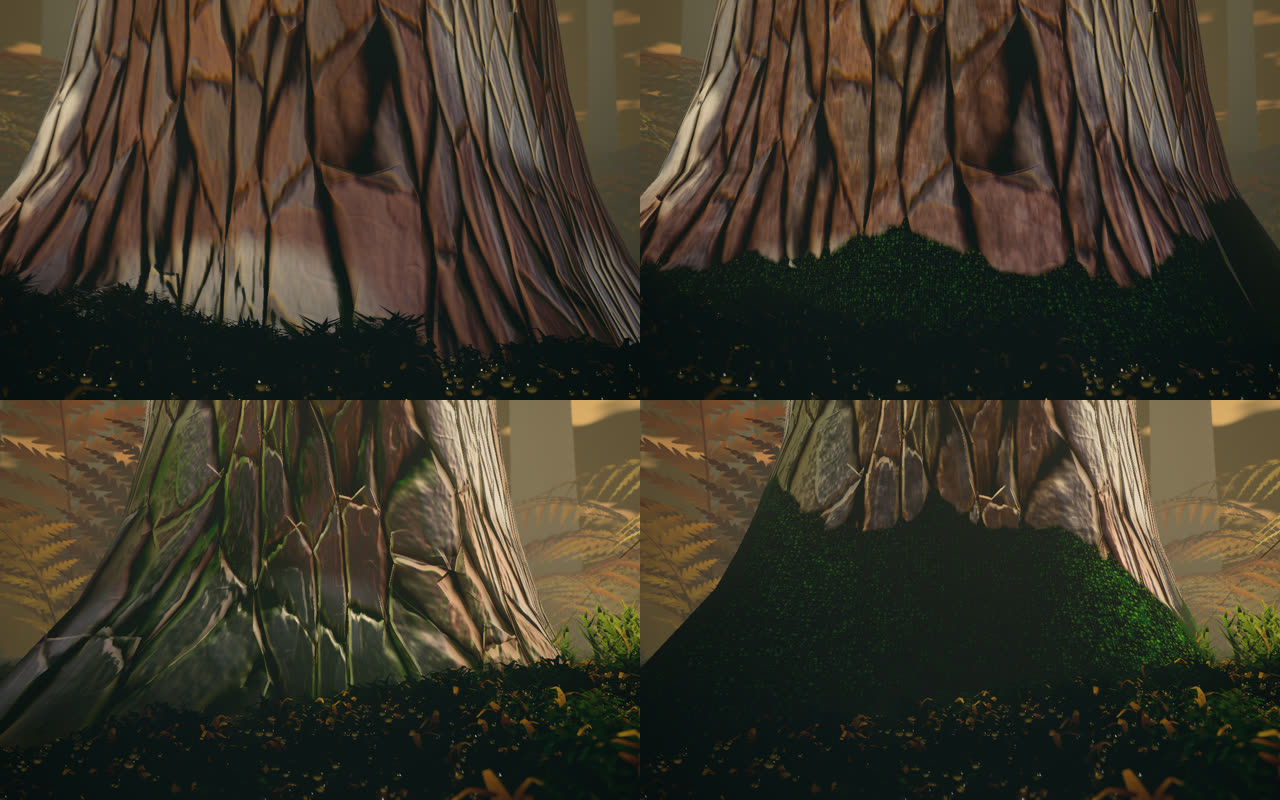
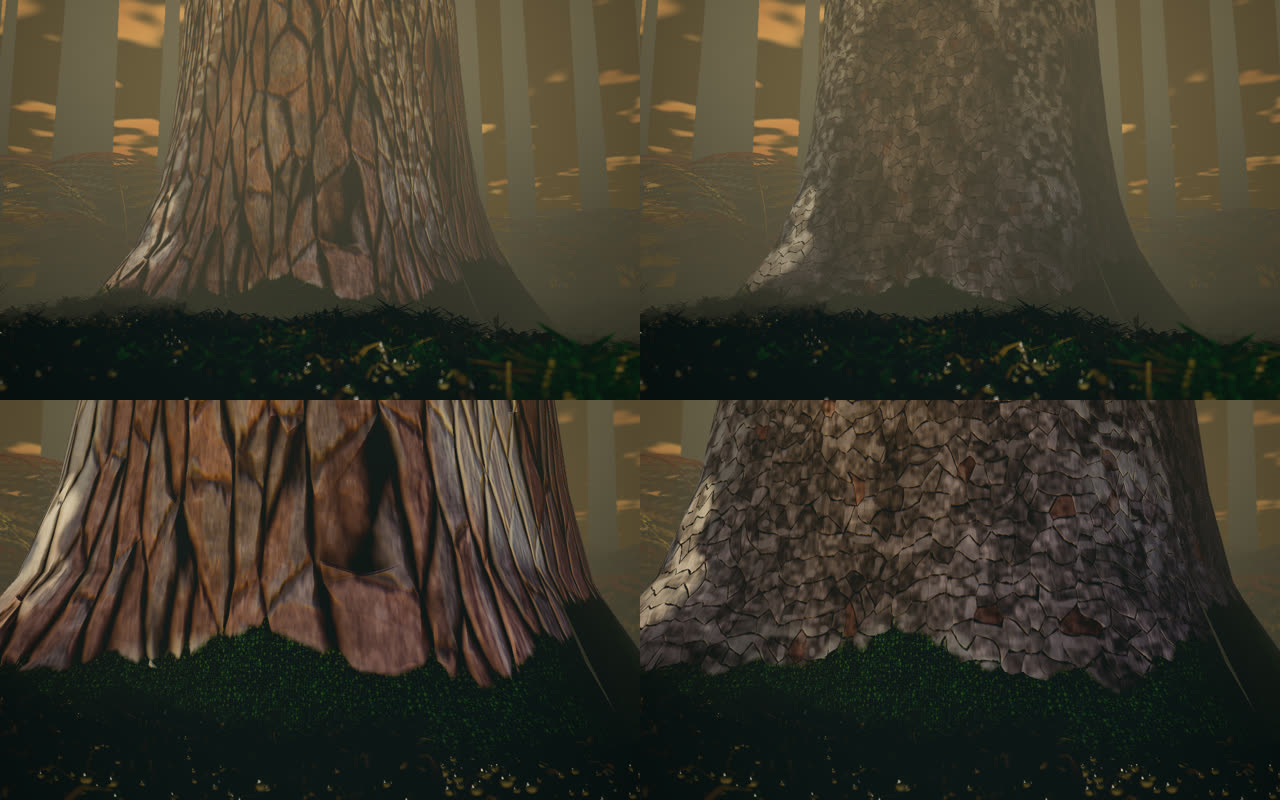
feat: 16 spruce bark, small overlapping scales
The pine plates looked fake up close. Spruce bark from the photo instead: round scales a few centimetres across, overlapping like tiles, with plenty of texture near.

- scales warped by noise round the trunk, curved and uneven
- dark gap under each lifted lower edge, only a faint parting at the sides
- a few scales gone, red-brown underneath
- weathered patches and pits up close, stronger grain

diff --git a/16/src/trees.ts b/16/src/trees.ts
@@ -1,8 +1,8 @@
 // Spruce trunks, columns rising out of the moss into the haze. One per cell of a coarse grid, by hash.
 // Three levels of detail, each an instanced mesh sharing one material: near trunks have their root flare in
 // fine geometry, mid ones a coarser version, far ones are octagonal columns. Trunks are sorted into the
-// levels as you move. The bark is a shader: long plates and deep wandering furrows, flaking in layers, bump-mapped
-// by finite differences, algae and crust lichen; up close fibres and papery scales on the plates, and a
+// levels as you move. The bark is a shader: spruce, small round scales overlapping like tiles, their lower edges
+// lifted, bump-mapped by finite differences, algae and crust lichen; up close fibres on the scales, and a
 // cushion of moss round the foot, swelling the outline, its shoots fuzzy and lime at the tips.
 import * as THREE from 'three';
 import { mulberry32 } from './noise';
@@ -217,18 +217,22 @@ float tips(vec2 b) {
   }
   return t;
 }
-// Pine-like bark: long plates running up the trunk, split by deep wandering furrows that join and part, with
-// fewer cracks across; each plate flaking off in layers, grey on top, red-brown where a flake has come away.
-// A cell noise stretched up the trunk, with a whole number of cells around so it wraps without a seam, and
-// its coordinates warped by sines of the angle (which wrap too) so the furrows wander.
+// Spruce bark: thin round scales a couple of centimetres across, overlapping like roof tiles, each one's
+// lower edge lifted off the trunk so it catches the light above and drops a little shadow below; shallow
+// cracks between them, and here and there a scale gone, showing red-brown underneath. A cell noise with a
+// whole number of cells around so it wraps without a seam, its rows nudged by sines of the angle (which wrap
+// too) so they do not line up.
 float AROUND; // cells around this trunk
-const float PER_Y = 6.5; // cells per unit up
+const float PER_Y = 30.0; // cells per unit up: a scale is about three centimetres tall
 vec4 barkV(vec2 b) {
   float ang = b.x / (6.2831853 * vR); // 0..1 around
   vec2 p = vec2(ang * AROUND, b.y * PER_Y);
   float a = ang * 6.2831853;
-  p.x += 0.45 * sin(a * 3.0 + b.y * 1.3) + 0.3 * sin(a * 7.0 - b.y * 2.9) + 0.18 * sin(a * 13.0 + b.y * 5.3);
-  p.y += 0.25 * sin(a * 5.0 + b.y * 0.7);
+  p.y += 0.35 * sin(a * 7.0 + b.y * 2.0) + 0.2 * sin(a * 19.0 - b.y * 5.0);
+  // the cells warped by a noise round the trunk (a circle in it, so it wraps): curved, uneven scales, not tiles
+  float K = AROUND * 0.11;
+  vec2 w = vec2(cos(a), sin(a)) * K;
+  p += (vec2(n21(w + vec2(0.0, p.y * 0.6)), n21(w * 1.3 + vec2(5.2, p.y * 0.5))) - 0.5) * vec2(0.9, 0.7);
   vec2 i = floor(p), f = fract(p);
   float f1 = 9.0, f2 = 9.0;
   vec2 id = vec2(0.0), q1 = vec2(0.0), q2 = vec2(0.0);
@@ -236,50 +240,45 @@ vec4 barkV(vec2 b) {
     vec2 o = vec2(float(x), float(y));
     vec2 c = i + o;
     c.x = mod(c.x, AROUND);
-    vec2 pt = o + vec2(h21(c), h21(c + 17.3)) * vec2(0.8, 0.9) + vec2(0.1, 0.05);
-    vec2 d = (pt - f) * vec2(1.0, 0.55); // distance counted short up the trunk: plates come out long
-    float l = length(d);
+    vec2 pt = o + 0.15 + 0.7 * vec2(h21(c), h21(c + 17.3));
+    float l = length((pt - f) * vec2(1.0, 0.8));
     if (l < f1) { f2 = f1; q2 = q1; f1 = l; q1 = pt; id = c; } else if (l < f2) { f2 = l; q2 = pt; }
   }
   float edge = f2 - f1;
-  // the furrow: a deep narrow V, its floor broken
-  // ragged: the edge eaten into at two scales, so a furrow's walls are broken, not drawn
-  float rag = (n21(p * vec2(5.0, 2.5)) - 0.5) * 0.12 + (n21(p * vec2(14.0, 7.0)) - 0.5) * 0.06;
-  // an edge between cells side by side runs up the trunk: a deep, wide furrow; one between cells one over
-  // the other runs across: a narrow shallow crack, so the plates read as long strips and not a net
-  vec2 dq = (q2 - q1) * vec2(1.0, 0.55);
-  float upright = smoothstep(0.35, 0.8, abs(dq.x) / (length(dq) + 1e-4));
-  float furrow = smoothstep(0.02, mix(0.1, 0.32, upright), edge + rag);
-  furrow = sqrt(furrow); // steep walls, a rounded shoulder
-  furrow = mix(1.0 - 0.45 * (1.0 - furrow), furrow, upright);
-  // the plate: flat-topped, flaking in two or three layers, the steps wandering across it
-  float fl = n21(p * vec2(2.6, 1.3) + id * 7.31) * 0.75 + n21(p * vec2(6.0, 3.0) + id * 3.7) * 0.25;
-  float t = fl * 2.6;
-  float layers = (floor(t) + smoothstep(0.35, 0.55, fract(t))) / 2.6;
-  // the plate's own surface: rough, with fine cracks across it where the outer scales split
-  float rough = n21(p * vec2(16.0, 9.0)) * 0.6 + n21(p * vec2(37.0, 21.0)) * 0.4;
-  float scaleCrack = smoothstep(0.06, 0.0, abs(fract(p.y * 3.0 + 0.6 * n21(p * vec2(4.0, 1.0) + id)) - 0.5) - 0.44) * smoothstep(0.55, 0.75, n21(p * 2.0 + id)) * n21(p * vec2(9.0, 3.0));
-  // rough enough to break the light up at arm's length, so the plates do not shade smooth like plastic
-  float h = furrow * (0.6 + 0.3 * layers + 0.26 * rough - 0.1 * scaleCrack);
-  return vec4(h, furrow, layers, h21(id + 3.1));
+  // where one scale's lower edge lies over the next a dark gap shows under it; beside each other they only
+  // just part, so the scales read as overlapping tiles and not a net of outlines
+  float rag = (n21(p * vec2(4.0, 3.0)) - 0.5) * 0.1 + (n21(p * vec2(11.0, 9.0)) - 0.5) * 0.06;
+  vec2 dq = q2 - q1;
+  float under = smoothstep(0.2, 0.7, -dq.y / (length(dq) + 1e-4)); // the neighbour is below this scale
+  float crack = smoothstep(0.0, mix(0.03, 0.14, under), edge + rag);
+  crack = mix(1.0 - 0.18 * (1.0 - crack), crack, under);
+  // the scale: rises towards its lower edge, which stands off the trunk; a slight dome across
+  vec2 d = f - q1; // from the scale's middle
+  float lift = clamp(0.5 - d.y * 0.9, 0.0, 1.0);
+  float dome = 1.0 - clamp(f1 * 1.4, 0.0, 1.0);
+  // some scales have come away: a step down to the red-brown underneath
+  float gone = step(h21(id + 8.1), 0.035);
+  float rough = n21(p * vec2(3.0, 2.5)) * 0.5 + n21(p * vec2(7.0, 6.0)) * 0.3 + n21(p * vec2(17.0, 13.0)) * 0.2;
+  float h = crack * (0.5 + 0.35 * lift + 0.1 * dome + 0.25 * rough - 0.3 * gone);
+  return vec4(h, crack, 1.0 - gone, h21(id + 3.1));
 }
 void main() {
   vec3 N = normalize(vNormal);
   vec3 L = normalize(uLightDir);
   vec3 V = normalize(cameraPosition - vWorldPos);
-  AROUND = max(6.0, floor(6.2831853 * vR * 17.0 + 0.5));
+  AROUND = max(12.0, floor(6.2831853 * vR * 40.0 + 0.5)); // scales about 2.5 cm wide
   vec4 bv = barkV(vBark);
   float h = bv.x;
   // far away the cells are smaller than a pixel: ease the relief and the contrast out instead of shimmering
   float px = length(fwidth(vBark)) * PER_Y * 1.6;
   float near = 1.0 - smoothstep(0.25, 0.9, px);
   // the normal from the height's slope along the bark, around and up (finite differences, so it is the same
-  // up close as far away), tilted by a furrow a few centimetres deep
+  // up close as far away), tilted by scales a few millimetres thick
   if (near > 0.01) {
-    float e = 0.004;
+    float e = 0.0015;
     float hx = barkV(vBark + vec2(e, 0.0)).x, hy = barkV(vBark + vec2(0.0, e)).x;
     vec3 T = normalize(cross(N, vec3(0.0, 1.0, 0.0)) + 1e-5), B = cross(T, N);
-    N = normalize(N - (T * (hx - h) + B * (hy - h)) / e * 0.022 * near);
+    N = normalize(N - (T * (hx - h) + B * (hy - h)) / e * 0.004 * near);
   }
   vec3 N0 = normalize(vNormal);
   vec3 T0 = normalize(cross(N0, vec3(0.0, 1.0, 0.0)) + 1e-5), B0 = cross(T0, N0);
@@ -293,7 +292,7 @@ void main() {
   if (fineFade > 0.01) {
     float e = 0.0012;
     g = grain(vBark);
-    float gk = 0.0016 * fineFade * bv.y * (1.0 - moss);
+    float gk = 0.0014 * fineFade * bv.y * (1.0 - moss);
     if (gk > 0.0) N = normalize(N - (T0 * (grain(vBark + vec2(e, 0.0)) - g) + B0 * (grain(vBark + vec2(0.0, e)) - g)) / e * gk);
     if (moss > 0.0) {
       fz = fuzz(vBark);
@@ -304,21 +303,25 @@ void main() {
   if (moss > 0.0 && fineFade <= 0.01) N = normalize(mix(N, N0, moss));
 
   float furrow = bv.y, layers = bv.z, cell = bv.w;
-  // grey weathered tops, red-brown where flakes came away, near black down the furrows
-  vec3 top = mix(vec3(0.12, 0.105, 0.09), vec3(0.155, 0.14, 0.125), cell);
-  vec3 under = mix(vec3(0.135, 0.085, 0.06), vec3(0.17, 0.10, 0.07), cell);
-  vec3 col = mix(under, top, 0.25 + 0.75 * smoothstep(0.2, 0.9, layers));
+  // dark grey weathered scales, each a shade different, red-brown where one came away, near black in the cracks
+  vec3 top = mix(vec3(0.062, 0.055, 0.048), vec3(0.105, 0.095, 0.082), cell);
+  vec3 under = mix(vec3(0.075, 0.052, 0.04), vec3(0.095, 0.065, 0.048), cell);
+  vec3 col = mix(under, top, layers);
   col *= 0.85 + 0.3 * n21(vBark * vec2(40.0, 14.0));
   // the grain: darker between the fibres, the scales' edges catching a little pale
   col *= mix(1.0, 0.55 + 0.9 * g, fineFade * furrow);
   col = mix(col, vec3(0.2, 0.18, 0.16), smoothstep(0.62, 0.8, g) * 0.35 * fineFade * furrow);
-  col = mix(vec3(0.016, 0.012, 0.009), col, mix(0.6, 1.0, near) * furrow + (1.0 - near) * 0.5 * (1.0 - furrow));
-  col = mix(vec3(0.13, 0.105, 0.085), col, mix(0.5, 1.0, near)); // far: the average
-  // green algae on the shaded side, crust lichen in pale patches on the plates
+  // up close each scale is weathered unevenly: pale flaky patches and dark pits
+  float wx = n21(vBark * vec2(150.0, 110.0) + cell * 9.0);
+  col *= mix(1.0, 0.6 + 0.8 * wx, fineFade);
+  col = mix(col, vec3(0.17, 0.16, 0.145), smoothstep(0.7, 0.85, n21(vBark * vec2(70.0, 55.0) + 4.0)) * 0.5 * fineFade * layers);
+  col = mix(vec3(0.014, 0.012, 0.01), col, mix(0.6, 1.0, near) * furrow + (1.0 - near) * 0.5 * (1.0 - furrow));
+  col = mix(vec3(0.085, 0.078, 0.07), col, mix(0.5, 1.0, near)); // far: the average
+  // green algae on the shaded side, crust lichen in pale patches on the scales
   col = mix(col, vec3(0.10, 0.13, 0.06), smoothstep(0.45, 0.75, n21(vBark * vec2(1.2, 0.5) + 3.0) * side + 0.15 * side) * 0.6 * furrow);
   // lichen in specks, not a smooth wash; and mottling, dark and pale blotches across the plates
   float speck = smoothstep(0.35, 0.75, n21(vBark * vec2(60.0, 45.0) + 3.0));
-  col = mix(col, vec3(0.30, 0.31, 0.25), smoothstep(0.62, 0.72, n21(vBark * vec2(2.2, 1.4) + 7.0)) * h * 0.65 * speck);
+  col = mix(col, vec3(0.24, 0.25, 0.21), smoothstep(0.6, 0.72, n21(vBark * vec2(2.2, 1.4) + 7.0)) * h * 0.6 * speck);
   col *= 0.75 + 0.5 * n21(vBark * vec2(14.0, 6.0) + 11.0);
   // the moss on the foot: dark down in it, green, the tips of the shoots lime and catching the light; deeper
   // in the cushion it is fuller and brighter, browner and thinner where it peters out up the trunk
@@ -333,7 +336,7 @@ void main() {
   // moss lets light through and round: a softer, wrapped diffuse
   float diff = mix(max(dot(N, L), 0.0), max(dot(N, L) + 0.35, 0.0) / 1.35, moss);
   // down a furrow's walls the plates either side shade it: no sun in there, so the walls do not shine
-  diff *= mix(smoothstep(0.25, 0.85, furrow), 1.0, max(moss, 1.0 - near));
+  diff *= mix(smoothstep(0.1, 0.7, furrow), 1.0, max(moss, 1.0 - near));
   vec3 c = col * (0.4 * skyTint(N, 1.0) + 2.0 * diff * shadow);
   // the low sun behind a trunk lights its edge
   // (only off the plates, broken by their roughness: a smooth even rim was what read as plastic)

diff --git a/16/README.md b/16/README.md
@@ -20,7 +20,7 @@ Drag to turn your head. Hold still to crawl where you look, drag while holding t
 - **Lens**: GTAO at half resolution, then two full-screen passes on the beauty target's depth. The first rebuilds the world ray per pixel for a height and sun-aware haze and a canopy sky, and writes the view depth into alpha. The second gathers a 40-tap golden-angle depth of field (thin lens, the background never bleeding over sharp foreground), then grades: cool shadows, warm highlights, a vignette. The focus is where the view ray first hits the moss or a mushroom, eased like a lens hunting.
 - **Crawling**: a worm's eye just over the frond tips, following the ground, with a slow heave and roll while moving. Mushroom stems are solid: you slide round them. A press becomes a crawl after 220 ms if it has not moved; past 8 px it is a head turn; a short press that did neither is a tap. With a mouse, dragging up looks up; with a finger, it drags the world (up looks down). A screen height of drag turns about twice the field of view (it was 1.2, too slow for a U-turn); crawling, the finger's distance sideways from where it went down, past 14 px, also turns you at up to 2.4 rad/s, full at 30% of the short side. The keys turn at 2.2 rad/s. With the pointer locked, mouse movement turns the head directly (1.6 fields of view per screen height), and the press is only ever a tap or a crawl.
 - **Ferns** (`ferns.ts`): a crown of 6 to 11 fronds, each a quadratic bezier up out of the crown, arching over and sinking at the tip, the outer ones lower. A thin tapering rachis, then 16 pinnae down each side, alternating, longest a third of the way up; each pinna a strip three columns wide, folded up along its midrib and curving down under its own weight, about five times as long as wide. The pinnule outline is cut in the fragment shader from (along, across): lobes leaning towards the tip, cut almost to the midrib, a few teeth on each, so the edge is crisp without a vertex per lobe. Autumn per frond, the tips ahead of the base: green, gold, rust, brown. Under each pinnule, rows of rust spore dots (sori). Light from behind comes through. The air moves the fronds, more at the tip. Placed by hash in 2.6 unit cells, two to five to a stand, fronds up to two units long arching high enough to crawl under, merged into one mesh per cell, in the shadow map; only the tight bunch of stipes at a crown is solid. Two levels of detail: cells further than 4.5 units get half the pinnae, each nearly twice as wide, and fewer rows, rebuilt one cell per frame as you come and go.
-- **Trunks** (`trees.ts`): one spruce in about half the cells of a 3.6 unit grid, by hash, out to 34 units. A unit trunk with its root flare (buttresses from two sines, sinking into the ground, rings packed towards the foot) in three levels of detail, 48 × 40, 16 × 14 and 8 × 3, each an instanced mesh with the same material; trunks are sorted into them every half step you take. The bark is all shader, pine-like: a cell noise stretched up the trunk (distances counted short upward, so plates come out long), with a whole number of cells around so it wraps without a seam, its coordinates warped by sines of the angle so the furrows wander, join and part. An edge between cells side by side is a deep wide furrow with ragged walls; one between cells stacked up is only a narrow shallow crack, so it reads as strips and not a net. Each plate flakes in two or three layers, grey on top and red-brown where a flake came away, rough, with a few fine cracks across. The normal comes from finite differences of that height along the bark (the same up close as far away), and fades out with the relief and contrast as the cells shrink under a pixel, where the extra lookups are skipped. Green algae on the shaded side, pale crust lichen. Up close, once a few millimetres are bigger than a pixel, the plates get a grain of their own: short fibres up the trunk, small papery scales each a little step, and crumbs, bump-mapped and darkening between the fibres (without it the plates read as folded cloth). A cushion of moss wraps the foot, 20 to 45 cm up, higher on the shaded side, with a ragged top edge and tongues running up the furrows; the vertices are pushed out a centimetre or three there so the outline bulges. Its colour is the ground moss's, near black and green, with a scatter of shoot tips glinting lime, and lit softly round the edge as moss lets light through. (It was a painted dark band, and up close the trunk met the moss in a hard line.) Matte, not plastic: the plates are rough enough to break the light up at arm's length, the lichen comes in specks and the plates are mottled, the sun does not reach down a furrow's walls, and the rim of light from the sun behind is weaker, broken up and kept off the plates' smooth shoulders. Solid, root flare included; the autofocus takes the flare at its average, since with the full buttress it focused in the air in front of a trunk you stood next to.
+- **Trunks** (`trees.ts`): one spruce in about half the cells of a 3.6 unit grid, by hash, out to 34 units. A unit trunk with its root flare (buttresses from two sines, sinking into the ground, rings packed towards the foot) in three levels of detail, 48 × 40, 16 × 14 and 8 × 3, each an instanced mesh with the same material; trunks are sorted into them every half step you take. The bark is all shader, spruce, after a photo of one: thin round scales two or three centimetres across overlapping like roof tiles, a cell noise with a whole number of cells around so it wraps without a seam, its cells warped by a noise sampled on a circle (so it wraps too) so the scales come out curved and uneven. Each scale rises to its lower edge, which stands off the trunk: where it lies over the scale below a dark gap shows, beside its neighbours only a faint parting, so they read as tiles and not a net of outlines (outlined all round they looked like crazy paving). One in thirty has come away, red-brown underneath. Dark grey, a shade different each, weathered unevenly up close with pale flaky patches and dark pits. The normal comes from finite differences of that height along the bark, and fades out with the relief and contrast as the scales shrink under a pixel, where the extra lookups are skipped. (It was pine, long plates and deep furrows, before that a uniform cell pattern that read as a tortoise shell; the plates looked fake up close.) Green algae on the shaded side, pale crust lichen. Up close, once a few millimetres are bigger than a pixel, the scales get a grain of their own: short fibres, small papery flakes and crumbs, bump-mapped and darkening between the fibres. A cushion of moss wraps the foot, 20 to 45 cm up, higher on the shaded side, with a ragged top edge and tongues running up the furrows; the vertices are pushed out a centimetre or three there so the outline bulges. Its colour is the ground moss's, near black and green, with a scatter of shoot tips glinting lime, and lit softly round the edge as moss lets light through. (It was a painted dark band, and up close the trunk met the moss in a hard line.) Matte, not plastic: the lichen comes in specks, the sun does not reach into the gaps, and the rim of light from the sun behind is weak and broken up. Solid, root flare included; the autofocus takes the flare at its average, since with the full buttress it focused in the air in front of a trunk you stood next to.
 - **Fungarium** (`fungarium.ts`): field-book paper (a CSS grid of pale blue lines over warm paper), one cell per species with a specimen rendered once into it, Swedish and Latin names. A cell opens the specimen on its own small renderer and scene, lit like the forest at dusk without the shadow map, turning slowly while it grows from nothing; "Grow again" replays it, "Throw these" makes it what tapping throws. The canvas is kept square and at most half the screen tall, so the names and buttons always show.
 - **Pouch** (`pouch.ts`): an SVG kraft-paper packet with a folded top and a bit of twine, a field-book label on it with the fungarium's specimen, its Swedish and Latin names and its number. Only the one in hand shows. A swap is driven per frame: down out of view in 0.14 s easing in, the label changed while it is out of sight, up in 0.22 s popping up and settling; pressing again mid-swap just changes what comes up. It bobs in a small figure eight with the gait, and jerks up and tips on a throw. Digit keys by `code`, so shift still reads as the number; the wheel takes one notch per 140 ms. Kept in step with the fungarium both ways.
 - **Gait**: a tripod gait, three legs down at a time: the step phase runs faster with speed (about five steps a second at full), each push-off gives a small forward shove (the speed pulses ±35%) and a tiny tick up, and the body rocks a few thousandths of a radian from one tripod to the other. Before it was a slow worm-like heave.
